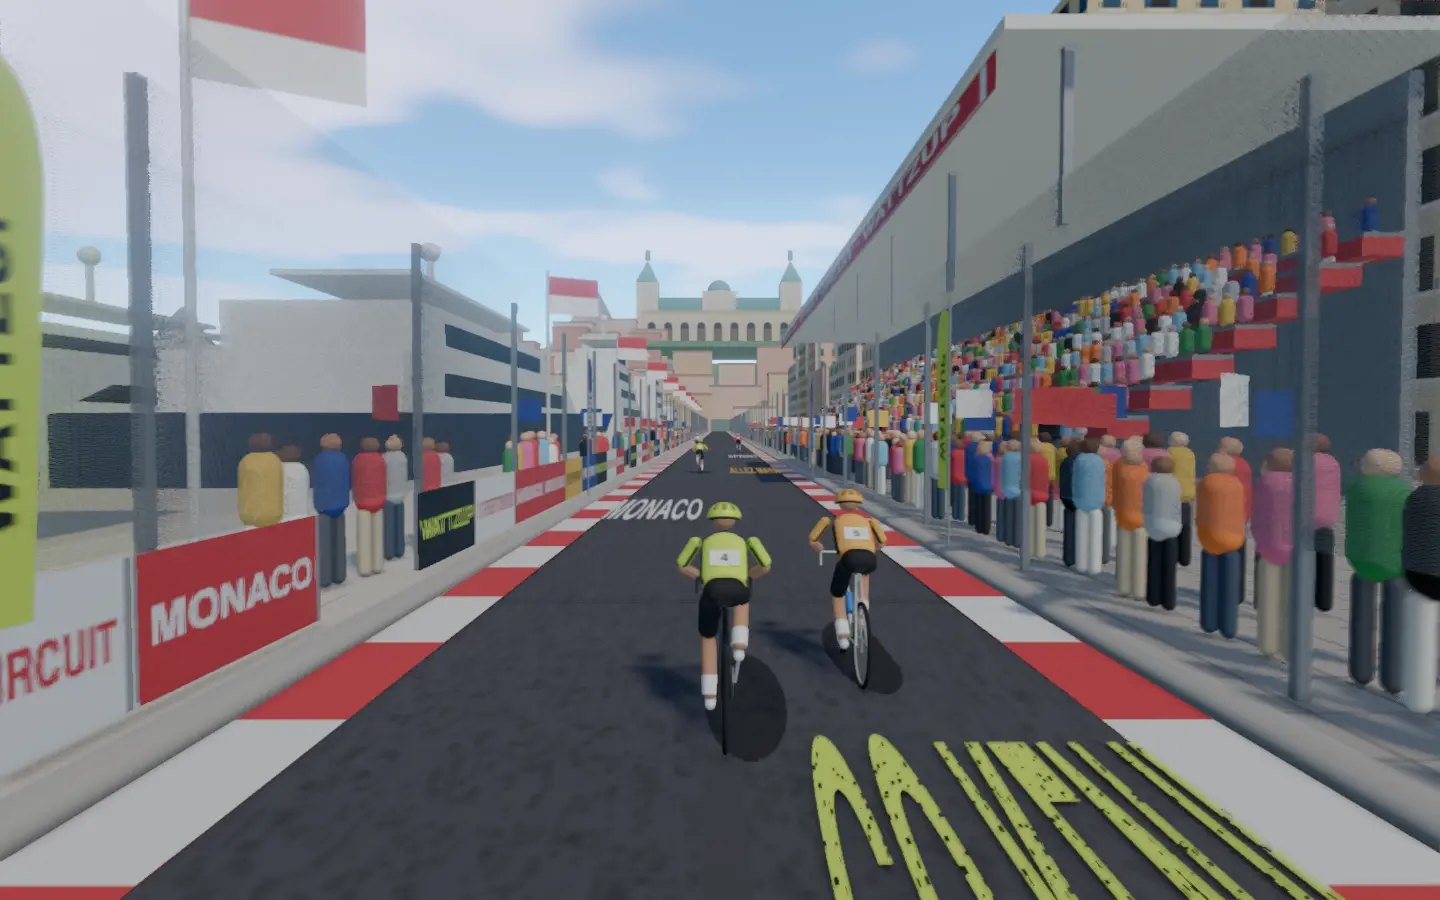
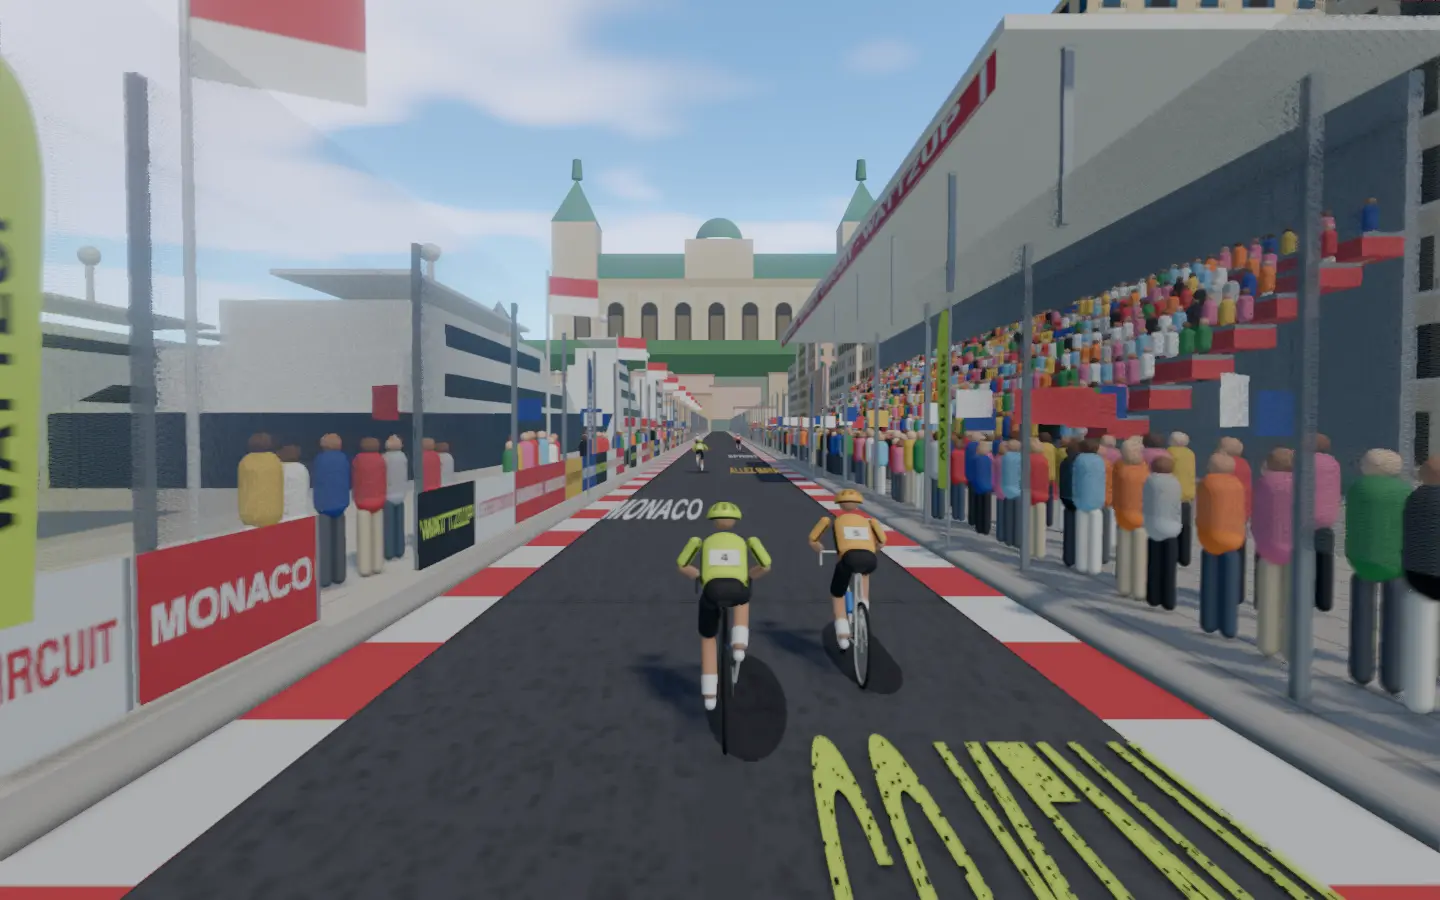
Raise Monaco's Casino large and warm over the vanishing point

Changed region(s): [[0.3438, 0.1867, 0.625, 0.4356], [0.0938, 0.3422, 0.1562, 0.4044]]

diff --git a/frontend/projects/wattzup/src/app/core/world-monaco.ts b/frontend/projects/wattzup/src/app/core/world-monaco.ts
@@ -631,7 +631,8 @@ export class MonacoStreet implements SceneStreet {
     for (let row = 0; row < 5; row++) {
       for (let k = 0; k < 16; k++) {
         const x = -150 + k * 22 + random() * 10;
-        if (Math.abs(x) < 34 && row >= 3) continue;
+        // The Casino's place on the hill is kept clear of blocks in front and behind.
+        if (Math.abs(x) < 82 && row >= 2) continue;
         const tall = 12 + random() * 18;
         const block = new Mesh(this.unitBox(), walls[Math.floor(random() * walls.length)]!);
         const y = row * 9;
@@ -668,11 +669,11 @@ export class MonacoStreet implements SceneStreet {
    */
   private addCasino(h: Group, haze: Color): void {
     const casino = new Group();
-    const cream = hazedMaterial(this.disposables, haze, 0xf0e2c0, 0.1);
-    const front = hazedMaterial(this.disposables, haze, 0xffffff, 0.08, {
+    const cream = hazedMaterial(this.disposables, haze, 0xf2e0b8, 0.04);
+    const front = hazedMaterial(this.disposables, haze, 0xffffff, 0.03, {
       map: this.track(casinoTexture()),
     });
-    const copper = hazedMaterial(this.disposables, haze, 0x5aa08a, 0.12);
+    const copper = hazedMaterial(this.disposables, haze, 0x4a9a80, 0.05);
     const body = new Mesh(new BoxGeometry(64, 18, 30), [cream, cream, cream, cream, front, cream]);
     this.disposables.push(body.geometry);
     body.position.set(0, 9, 0);
@@ -705,13 +706,13 @@ export class MonacoStreet implements SceneStreet {
     dome.position.set(0, 26, 12);
     casino.add(dome);
     // The gardens in front: a lawn falling away with its palms.
-    const lawn = hazedMaterial(this.disposables, haze, 0x4a8a3a, 0.18);
+    const lawn = hazedMaterial(this.disposables, haze, 0x3a8a34, 0.08);
     const garden = new Mesh(this.unitBox(), lawn);
     garden.scale.set(90, 2, 50);
     garden.position.set(0, -1, 40);
     casino.add(garden);
-    casino.scale.setScalar(1.4);
-    casino.position.set(0, 44, -190);
+    casino.scale.setScalar(2.3);
+    casino.position.set(0, 30, -118);
     h.add(casino);
   }
 

diff --git a/docs/detailed-designs/world-ride/draw-class-scene/README.md b/docs/detailed-designs/world-ride/draw-class-scene/README.md
@@ -444,7 +444,7 @@ None.
   - fans along both barriers in summer shirts and team colours, a fifth waving flags (the shared crowd), packed deep on the right and a single loose row on the quay;
   - on the left the quay's pale limestone flags out to its edge 11 m off the crown, the flags of Monaco, red over white, on tall poles every 24 m, and the harbour's deep blue water glittering out to the horizon; superyachts moored side-on along the quay in three rows (alongside it, then 24 m and 52 m out), 30 to 66 m long: hulls in white, navy or graphite with a square stern and the sheer rising to a raked bow, two to four white decks stepping back above them with sloping fronts and bands of dark glass, the hardtop, mast and radar dome; the fans on the quay stand in a single loose row so the yachts show between them;
   - on the right two grandstands, 70 m long, the first from 20 to 90 m ahead in the opening view and the second half a loop on, nine tiers of red seats rising behind the fence, packed with nine hundred fans (the kit's figures) bouncing as the riders pass, under a white roof with MONACO · STREET CIRCUIT · WATTZUP along its fascia; behind them, 24 m off the crown, the town: pastel blocks of five to ten floors in ochre, pink, cream and apricot, shuttered windows and balconies up their fronts under terracotta roofs, and a second row up the hill behind;
-  - 280 m ahead the town climbing its green hill in terraces of pastel blocks, the Casino of Monte-Carlo on top: its cream front of tall arched windows between columns, two square towers under copper caps and lanterns, the clock and its copper dome in the middle, its gardens falling away in front; the bare limestone mountains behind, all hazed by hand. Everything along the track is hidden past it.
+  - 280 m ahead the town climbing its green hill in terraces of pastel blocks, the Casino of Monte-Carlo on top, 140 m wide and some 100 m tall with its towers, filling the vanishing point, the blocks kept clear in front of and behind it, hazed only lightly so its cream and copper stay warm: its cream front of tall arched windows between columns, two square towers under copper caps and lanterns, the clock and its copper dome in the middle, its gardens falling away in front; the bare limestone mountains behind, all hazed by hand. Everything along the track is hidden past it.
 
   `lay`, `place` and `setTime` recycle it along a 500 m loop.
 - **Tempelhof Field (`core/world-tempelhof.ts`).** For `tempelhof`, Berlin's old airport on a breezy summer evening:

diff --git a/docs/class-worlds.md b/docs/class-worlds.md
@@ -46,7 +46,7 @@ Every class in `frontend/public/classes.json`, with its World Ride scene. Render
 | 40 | Give Me One Minute | Times Square New Year's Eve | 80% | Broadway through Times Square glows on the last night of the year, its towers wrapped in billboards and countdown screens above a party packed behind police barriers, confetti drifting down toward One Times Square and the crystal ball on its pole. The two-minute warm-up rolls in under the screens, each one-minute effort races the countdown between the billboards toward the ball drop, and the recoveries coast through the confetti with the glowing 2027 still ahead. |
 | 41 | Drag Race | Daytona Beach Sand | 74% | Hard-packed sand where stock cars once raced; drag-race along the tide line. |
 | 42 | Max Effort Up & Overs | San Francisco Hills (concept) |  | Steep streets and Lombard's crooked bends; up and over each crest as cable cars clang. |
-| 43 | Non-Stop Sprinting | Monaco Street Circuit | 77% | Port Hercule glitters under a Riviera sun on race weekend, superyachts moored along the quay beside the catch fences and packed grandstands of the street circuit while the pastel town climbs its hill to the Casino. The five-minute warm-up rolls along the harbour front, each sprint from fifteen seconds to a minute and a half bursts between the red and white kerbs past the yachts, and the recoveries spin easy with the Casino's copper towers ahead. |
+| 43 | Non-Stop Sprinting | Monaco Street Circuit | 80% | Port Hercule glitters under a Riviera sun on race weekend, superyachts moored along the quay beside the catch fences and packed grandstands of the street circuit while the pastel town climbs its hill to the Casino. The five-minute warm-up rolls along the harbour front, each sprint from fifteen seconds to a minute and a half bursts between the red and white kerbs past the yachts, and the recoveries spin easy with the Casino's copper towers ahead. |
 | 44 | In & Out of the Saddle Hill Climb Reps | Mont Ventoux | 70% | Bare white limestone in the mistral; stand and sit up the Giant of Provence. |
 | 45 | Ride to the Beat | Mardi Gras, New Orleans (concept) |  | Brass bands and bead-throwing floats on St. Charles Avenue; pedal to the parade's beat. |
 | 46 | Intervals to the Beat | Ibiza Sunset Strip (concept) |  | Beach clubs and DJ sets as the sun sinks; intervals drop with the bass. |
